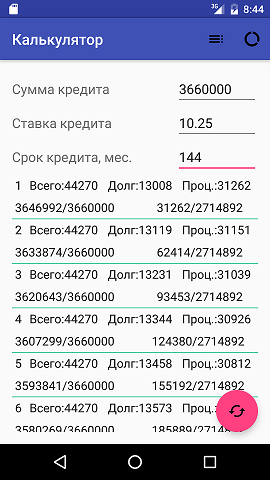
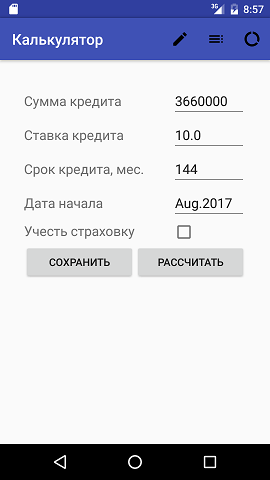
[FIX] доделано отображение графика платежей, добавлен рассчет страховки

diff --git a/app/src/main/java/ru/squel/ipotekacalc/graph/GraphPlotter.java b/app/src/main/java/ru/squel/ipotekacalc/graph/GraphPlotter.java
@@ -13,10 +13,9 @@ import android.util.AttributeSet;
 import android.util.TypedValue;
 import android.view.MotionEvent;
 import android.view.View;
+import android.widget.LinearLayout;
 
 import java.util.ArrayList;
-import java.util.HashMap;
-import java.util.Map;
 
 import ru.squel.ipotekacalc.data.MonthlyData;
 
@@ -27,6 +26,8 @@ import ru.squel.ipotekacalc.data.MonthlyData;
 public class GraphPlotter extends View implements View.OnTouchListener {
 
     public static final String LOG_TAG = GraphPlotter.class.getSimpleName();
+
+    private OnPlotClickCallback callback;
 
     /// данные для построителя графика
     private ArrayList<MonthlyData> data;
@@ -39,8 +40,6 @@ public class GraphPlotter extends View implements View.OnTouchListener {
     /// для рисования линий при касании
     private Path mPath = new Path();
 
-    /// здесь три кривые - всего, за проценты, за долг
-    private final Map<String, Path> pathMap = new HashMap<>();
     /// здесь точки
     private final ArrayList<Point> percentDots = new ArrayList<>();
     private final ArrayList<Point> debtDots = new ArrayList<>();
@@ -61,6 +60,10 @@ public class GraphPlotter extends View implements View.OnTouchListener {
         setOnTouchListener(this);
     }
 
+    public void setOnPlotClickCallback(OnPlotClickCallback callback) {
+        this.callback = callback;
+    }
+
     /**
      * Усиновка данных для графика
      *
@@ -74,8 +77,13 @@ public class GraphPlotter extends View implements View.OnTouchListener {
     @Override
     public void onSizeChanged(int w, int h, int oldW, int oldH) {
 
-        this.sizeX = getWidth();
-        this.sizeY = getHeight();
+        sizeX = getWidth();
+        sizeY = getHeight();
+        int baseSize = Math.min(sizeX, sizeY);
+
+        if (sizeY > baseSize)
+            setLayoutParams(new LinearLayout.LayoutParams(sizeX, baseSize));
+
         bitmap = Bitmap.createBitmap(getWidth(), getHeight(),
                 Bitmap.Config.ARGB_8888);
         bitmapCanvas = new Canvas(bitmap);
@@ -232,6 +240,12 @@ public class GraphPlotter extends View implements View.OnTouchListener {
                 mPath.reset();
                 mPath.moveTo(x, 0);
                 mPath.lineTo(x, baseSize);
+
+                float step = sizeX/data.size();
+                int idx = Math.round(x/(step));
+                if (idx < data.size())
+                    callback.onPlotCallback(data.get(idx), idx);
+
                 invalidate();
                 break;
             case MotionEvent.ACTION_MOVE: // движение

diff --git a/app/src/main/java/ru/squel/ipotekacalc/graph/GraphFragment.java b/app/src/main/java/ru/squel/ipotekacalc/graph/GraphFragment.java
@@ -6,6 +6,7 @@ import android.os.Bundle;
 import android.view.LayoutInflater;
 import android.view.View;
 import android.view.ViewGroup;
+import android.widget.TextView;
 
 import java.util.ArrayList;
 
@@ -15,7 +16,7 @@ import ru.squel.ipotekacalc.data.MonthlyData;
 /**
  * A simple {@link Fragment} subclass.
  */
-public class GraphFragment extends Fragment {
+public class GraphFragment extends Fragment implements OnPlotClickCallback {
 
     /// данные для построителя графика
     private ArrayList<MonthlyData> dataByMonth;
@@ -23,6 +24,11 @@ public class GraphFragment extends Fragment {
     /// вьюха построителя графиков
     GraphPlotter plotView = null;
 
+    TextView textMonthlyPay;
+    TextView textMonthlyDebt;
+    TextView textCurrentMonth;
+    TextView textMonthlyPercent;
+    TextView textMonthlyEnsurance;
 
     public GraphFragment() {
         // Required empty public constructor
@@ -42,8 +48,19 @@ public class GraphFragment extends Fragment {
         View view = inflater.inflate(R.layout.fragment_graph, container, false);
         plotView = (GraphPlotter) view.findViewById(R.id.GraphPlotter);
         plotView.setData(this.dataByMonth);
-
+        plotView.setOnPlotClickCallback(this);
         return view;
+    }
+
+    @Override
+    public void onStart() {
+        super.onStart();
+
+        textCurrentMonth = (TextView) getView().findViewById(R.id.grapMonthValue);
+        textMonthlyPay = (TextView) getView().findViewById(R.id.graphDescrSumValue);
+        textMonthlyDebt = (TextView) getView().findViewById(R.id.graphDescrDebtValue);
+        textMonthlyPercent = (TextView) getView().findViewById(R.id.graphPercentDebtValue);
+        textMonthlyEnsurance = (TextView) getView().findViewById(R.id.graphEnsuranceValue);
     }
 
     @Override
@@ -55,5 +72,14 @@ public class GraphFragment extends Fragment {
     @Override
     public void onDetach() {
         super.onDetach();
+    }
+
+    @Override
+    public void onPlotCallback(MonthlyData clickedMonth, int monthImdex) {
+        textCurrentMonth.setText(String.valueOf(monthImdex));
+        textMonthlyPay.setText(clickedMonth.getMonthlyPay());
+        textMonthlyDebt.setText(clickedMonth.getMonthlyDebt());
+        textMonthlyPercent.setText(clickedMonth.getMonthlyPercent());
+        textMonthlyEnsurance.setText(clickedMonth.getEnsurance());
     }
 }

diff --git a/app/src/main/java/ru/squel/ipotekacalc/data/MonthlyData.java b/app/src/main/java/ru/squel/ipotekacalc/data/MonthlyData.java
@@ -8,25 +8,28 @@ public class MonthlyData {
 
     private double monthlyPay;
 
+    /// сумма приведенной страховки
+    private double monthlyEnsurance = 0;
+
     /// доля месячного платежа - на проценты
-    private double monthlyPercent;
+    private double monthlyPercent = 0;
     /// доля месячного платежа - на кредит
-    private double monthlyDebt;
+    private double monthlyDebt = 0;
 
     /// остаток долга на текущий месяц
-    private double currentDebtSize;
+    private double currentDebtSize = 0;
     /// сумма переплаты на текущий месяц
-    private double currentPercentSize;
+    private double currentPercentSize = 0;
 
     /// общая сумма кредита
-    private static double totalDebtSize;
+    private static double totalDebtSize = 0;
     /// общая сумма переплаты - одна у всех
-    private static double totalPercentSize;
+    private static double totalPercentSize = 0;
     /// количество месяцев
-    private static int totalMonthes;
+    private static int totalMonthes = 0;
 
     public MonthlyData(double monthPay, double percentPay, double debtPay,
-                       double currentDebtSize, double currentPercentSize) {
+                       double currentDebtSize, double currentPercentSize, double monthlyEnsurance) {
 
         this.monthlyPay = monthPay;
         this.monthlyPercent = percentPay;
@@ -34,6 +37,7 @@ public class MonthlyData {
 
         this.currentDebtSize = currentDebtSize;
         this.currentPercentSize = currentPercentSize;
+        this.monthlyEnsurance = monthlyEnsurance;
     }
 
     /**
@@ -76,6 +80,10 @@ public class MonthlyData {
 
     public String getTotalDebtSize() {
         return String.format("%.0f", totalDebtSize);
+    }
+
+    public String getEnsurance() {
+        return String.format("%.0f", monthlyEnsurance);
     }
 
 }

diff --git a/app/src/main/java/ru/squel/ipotekacalc/data/DataModel.java b/app/src/main/java/ru/squel/ipotekacalc/data/DataModel.java
@@ -82,7 +82,7 @@ public class DataModel {
                 ensurancePerYear = ostatokDebt * 0.01;
             }
 
-            MonthlyData monthlyData = new MonthlyData(monthPay + ensurancePerYear/12, percentPay, debtPay, ostatokDebt, percenFull);
+            MonthlyData monthlyData = new MonthlyData(monthPay, percentPay, debtPay, ostatokDebt, percenFull, ensurancePerYear/12);
             this.dataByMonth.add(monthlyData);
         }
 

diff --git a/app/src/main/java/ru/squel/ipotekacalc/graph/OnPlotClickCallback.java b/app/src/main/java/ru/squel/ipotekacalc/graph/OnPlotClickCallback.java
@@ -1,0 +1,11 @@
+package ru.squel.ipotekacalc.graph;
+
+import ru.squel.ipotekacalc.data.MonthlyData;
+
+/**
+ * Created by sq on 11.08.2017.
+ */
+public interface OnPlotClickCallback {
+
+    void onPlotCallback(MonthlyData clickedMonth, int monthImdex);
+}
